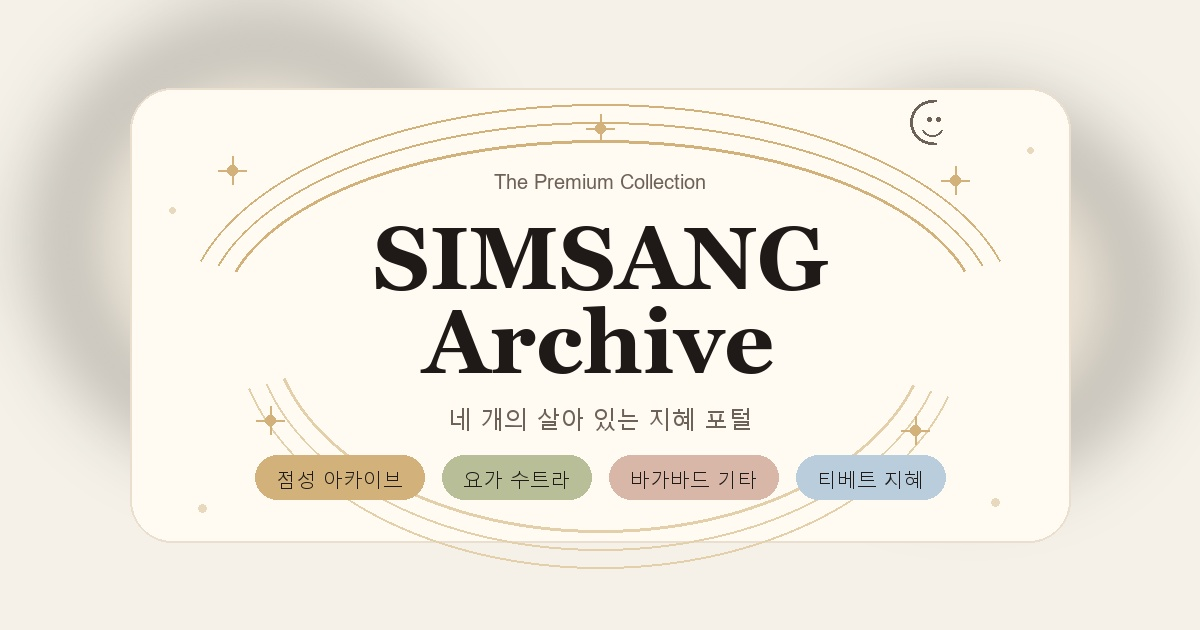
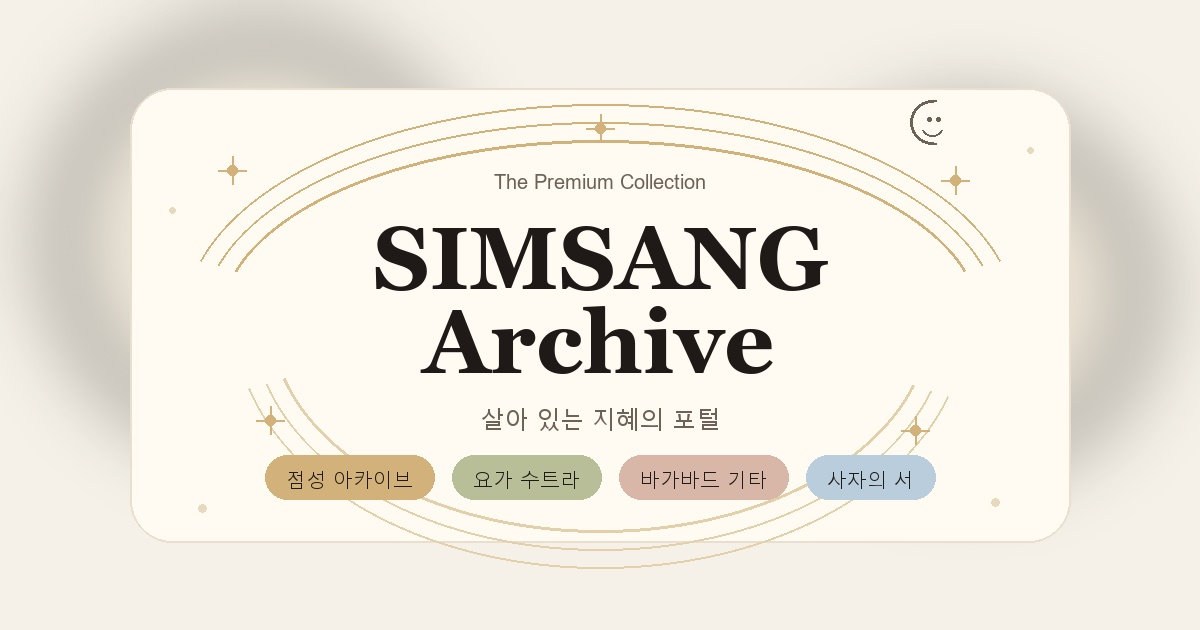
copy: generalize portal messaging and lion's book label

Changed region(s): [[0.2158, 0.7238, 0.8017, 0.7841], [0.37, 0.6333, 0.6167, 0.6937]]

diff --git a/index.html b/index.html
@@ -23,7 +23,7 @@
     <meta property="og:type" content="website" />
     <meta property="og:locale" content="ko_KR" />
     <meta property="og:site_name" content="Simsang Archive" />
-    <meta property="og:title" content="SIMSANG ARCHIVE | 네 개의 살아 있는 지혜 포털" />
+    <meta property="og:title" content="SIMSANG ARCHIVE | 살아 있는 지혜의 포털" />
     <meta
         property="og:description"
         content="점성, 요가 수트라, 바가바드 기타, 티베트 사자의 서를 잇는 프리미엄 아카이브 포털." />
@@ -31,16 +31,16 @@
     <meta property="og:image:secure_url" content="https://simsang.org/og-image.jpg" />
     <meta property="og:image:width" content="1200" />
     <meta property="og:image:height" content="630" />
-    <meta property="og:image:alt" content="황금 기하학 문양 위에 SIMSANG Archive 로고가 놓인 공유 이미지" />
+    <meta property="og:image:alt" content="미니멀한 곡선 장식과 함께 SIMSANG Archive 로고가 배치된 공유 이미지" />
     <meta property="og:url" content="https://simsang.org" />
 
     <meta name="twitter:card" content="summary_large_image" />
-    <meta name="twitter:title" content="SIMSANG ARCHIVE | 네 개의 살아 있는 지혜 포털" />
+    <meta name="twitter:title" content="SIMSANG ARCHIVE | 살아 있는 지혜의 포털" />
     <meta
         name="twitter:description"
         content="점성, 요가 수트라, 바가바드 기타, 티베트 사자의 서를 잇는 프리미엄 아카이브 포털." />
     <meta name="twitter:image" content="https://simsang.org/og-image.jpg" />
-    <meta name="twitter:image:alt" content="황금 기하학 문양 위에 SIMSANG Archive 로고가 놓인 공유 이미지" />
+    <meta name="twitter:image:alt" content="미니멀한 곡선 장식과 함께 SIMSANG Archive 로고가 배치된 공유 이미지" />
 
     <link
         href="https://fonts.googleapis.com/css2?family=Cinzel:wght@400;500;600&family=Inter:wght@300;400;500&family=Noto+Sans+KR:wght@300;400;500&family=Noto+Serif+KR:wght@400;500;600&display=swap"
@@ -98,14 +98,15 @@
             <div class="w-px h-8 md:h-10 bg-gradient-to-b from-accent-light/50 dark:from-accent-dark/50 to-transparent mb-6 md:mb-8">
             </div>
             <p
-                class="text-slate-500 dark:text-slate-400 font-body text-[11px] md:text-[13px] tracking-[0.22em] md:tracking-[0.25em] max-w-xl md:max-w-2xl text-center leading-7 md:leading-loose font-light uppercase">
-                점성, 요가, 기타, 티베트 지혜를 잇는 네 개의 살아 있는 포털 <br /> 영원의 마음을 위한 정제된 통찰과 고대의 관측
+                class="text-slate-500 dark:text-slate-400 font-body text-[11px] md:text-[13px] tracking-[0.1em] md:tracking-[0.16em] max-w-xl md:max-w-2xl text-center leading-7 md:leading-loose font-light">
+                점성, 요가, 기타, 사자의 서를 잇는 살아 있는 포털<br />
+                영원의 마음을 위한 정제된 통찰과 고대의 관측
             </p>
-            <div class="mt-6 md:mt-8 flex flex-wrap items-center justify-center gap-2.5 md:gap-3 text-[9px] md:text-[10px] uppercase tracking-[0.24em] md:tracking-[0.3em]">
+            <div class="mt-6 md:mt-8 flex flex-wrap items-center justify-center gap-2.5 md:gap-3 text-[9px] md:text-[10px] tracking-[0.08em] md:tracking-[0.14em]">
                 <span class="header-pill">점성 아카이브</span>
                 <span class="header-pill">요가 수트라</span>
                 <span class="header-pill">바가바드 기타</span>
-                <span class="header-pill">티베트 지혜</span>
+                <span class="header-pill">사자의 서</span>
             </div>
         </header>
 
